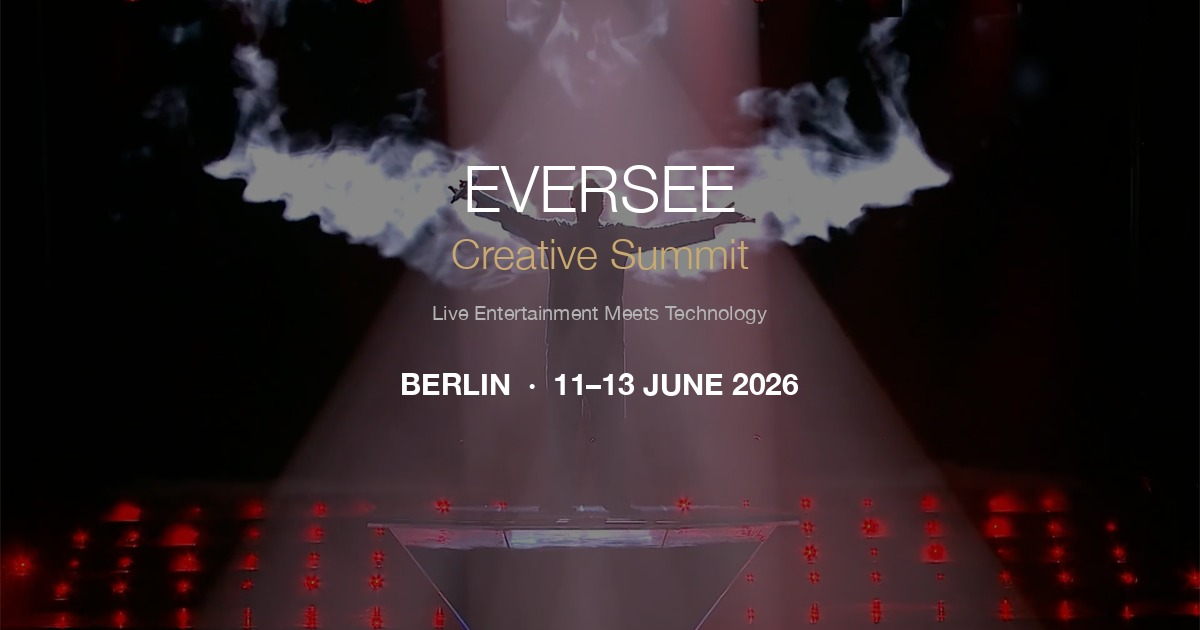
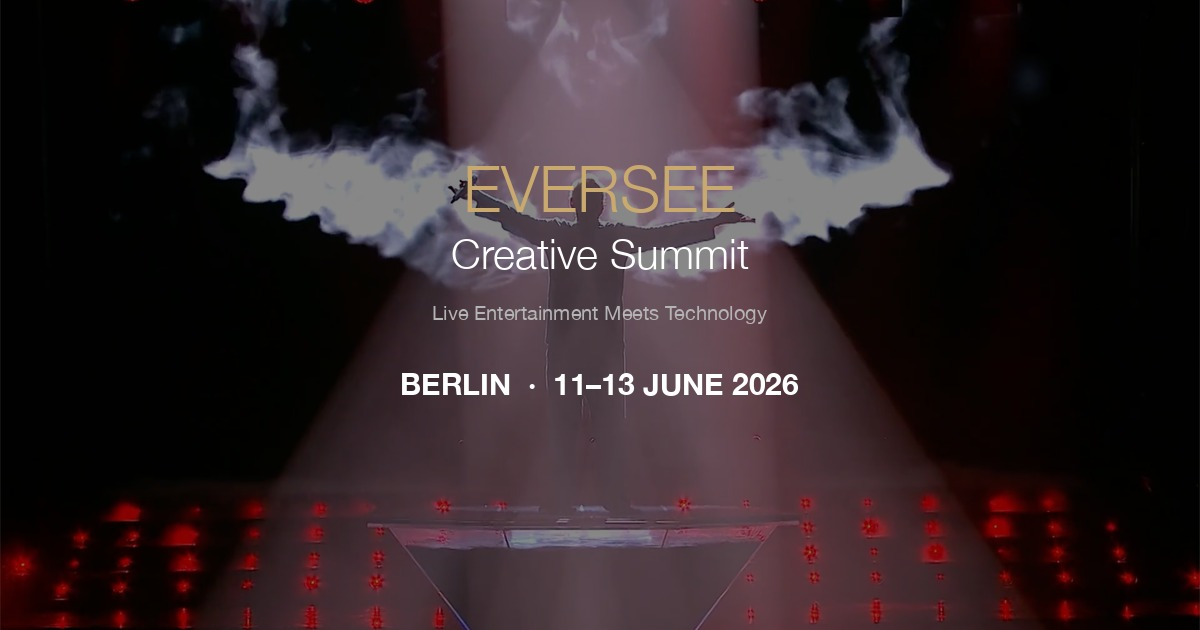
Brand-consistent OG image, add address/VAT to corporate email
- OG image: EVERSEE in gold, Creative Summit in white
- Corporate email template: add Company address and VAT number fields
- Update date in JS email body to 11–13 June 2026
- Static mailto for corporate also updated with address/VAT fields

Changed region(s): [[0.37, 0.2413, 0.6167, 0.3619], [0.37, 0.3619, 0.6475, 0.4524]]

diff --git a/eversee-new/index.html b/eversee-new/index.html
@@ -681,7 +681,7 @@
       <!-- Corporate -->
       <div class="tickets__aside" data-reveal>
         <div class="tickets__aside-text"><strong>Bringing a team of 3+?</strong> Custom composition, brand visibility, priority curation.</div>
-        <a href="mailto:info@eversee.com?subject=EVERSEE%20Corporate%20Package&body=Hi%2C%0A%0AWe're%20interested%20in%20a%20Corporate%20package%20for%20EVERSEE%20Creative%20Summit%20(Berlin%2C%20June%202026).%0A%0ACompany%3A%20%0ATeam%20size%3A%20%0A%0AThank%20you!" class="btn btn--outline" data-cursor-hover>Contact us</a>
+        <a href="mailto:info@eversee.com?subject=EVERSEE%20Corporate%20Package&body=Hi%2C%0A%0AWe're%20interested%20in%20a%20Corporate%20package%20for%20EVERSEE%20Creative%20Summit%20(Berlin%2C%2011%E2%80%9313%20June%202026).%0A%0ACompany%3A%20%0ACompany%20address%3A%20%0AVAT%20number%3A%20%0ATeam%20size%3A%20%0A%0AThank%20you!" class="btn btn--outline" data-cursor-hover>Contact us</a>
       </div>
     </div>
   </section>

diff --git a/eversee-new/js/main.js b/eversee-new/js/main.js
@@ -223,7 +223,7 @@
         var lines = [
           'Hi,',
           '',
-          "I'd like to reserve a " + ticketName + ' badge for EVERSEE Creative Summit (Berlin, June 2026).',
+          "I'd like to reserve a " + ticketName + ' badge for EVERSEE Creative Summit (Berlin, 11–13 June 2026).',
           '',
           'Ticket: ' + ticketName + ' — \u20AC' + base
         ];
@@ -240,6 +240,10 @@
         lines.push('Name: ');
         lines.push('Position: ');
         lines.push('Company: ');
+        if (ticketName.toLowerCase().indexOf('companies') !== -1) {
+          lines.push('Company address: ');
+          lines.push('VAT number: ');
+        }
         lines.push('Number of tickets: ');
         lines.push('');
         lines.push('Thank you!');
